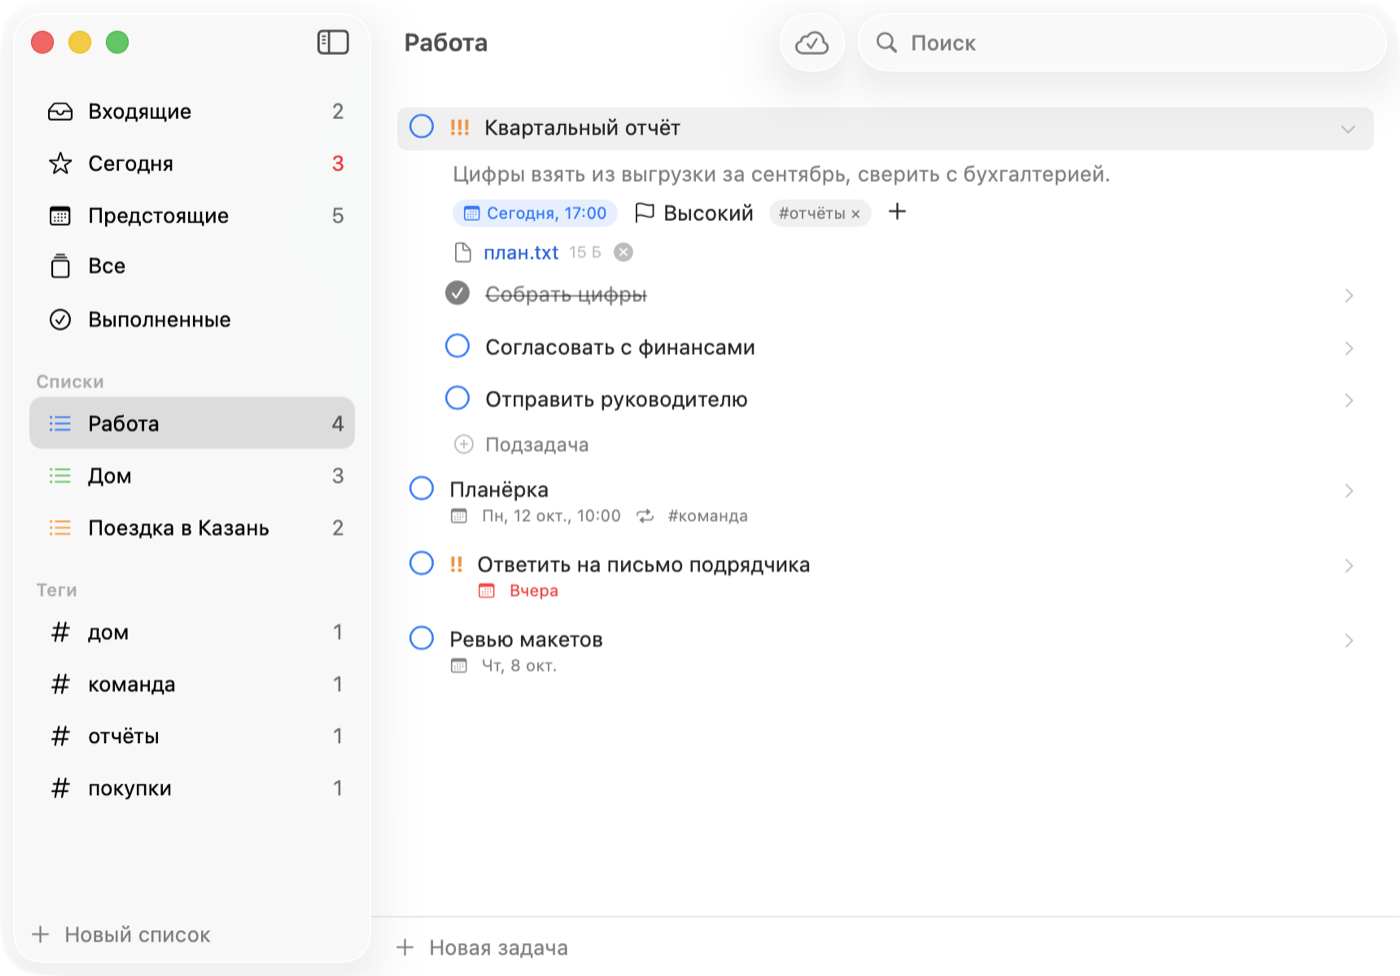
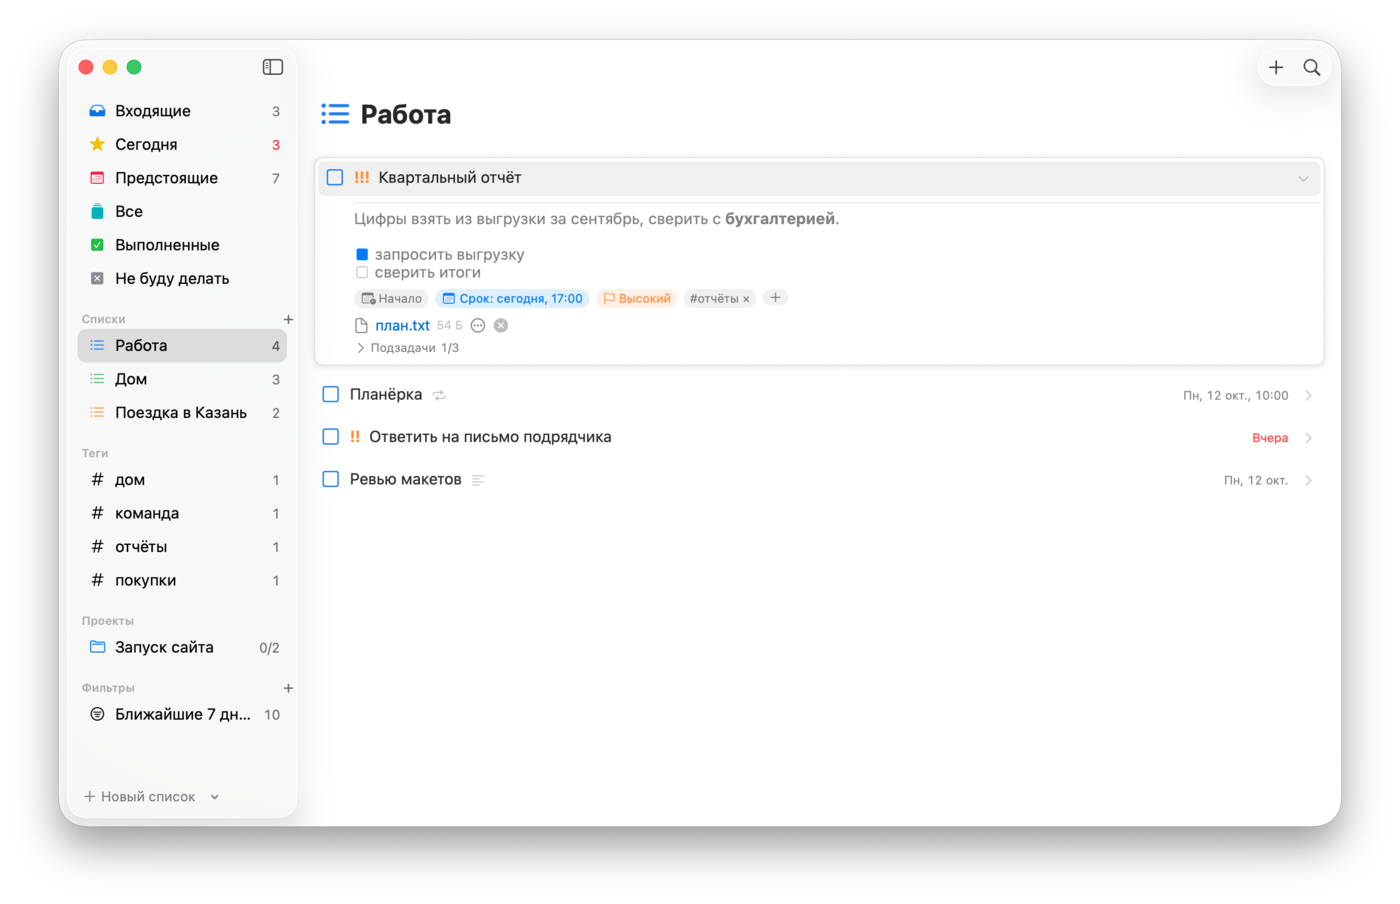
docs: the card of a task on macOS, and what the screenshots were taken with
Refs #137

diff --git a/docs/specs/product.md b/docs/specs/product.md
@@ -307,6 +307,8 @@ Android: один экран со списком задач, выдвижная 
 
 **Клавиатура в карточке по ⌘N после быстрого ввода** (R37, #152) — найдено автором проекта 2026-10-09 в видимом окне отладочной сборки: после работы с окном быстрого ввода ⌘N в основном окне открывал карточку, в которую нельзя было писать. Состояние снято шагом `state` раз в две секунды, пока автор повторял сценарий руками: основное окно ключевое, карточка открыта, а клавиатура у корневого вида окна (`AppKitWindowHostingView`), не у поля названия; до ⌘N она была у списка задач. Просьба карточки о клавиатуре при появлении теряется. Почему — не установлено: скриптом в видимом окне (панель, Esc, панель, задача через неё, ⌘N) и в скрытом экземпляре (клавиатура у списка, выделена строка, ⌘N, шесть раз) сбой не воспроизвёлся, нужен проход панели руками. Отвергнуто замером: основное окно после закрытия панели остаётся ключевым. Правка: карточка в основном окне через 50, 150, 350 и 750 мс после появления смотрит, есть ли клавиатура у текста, плашки или открытого выбора, и если нет — просит её для названия заново. Проверено тем же ручным сценарием на сборке с правкой: сбой случился три раза, каждый раз карточка попросила клавиатуру повторно и получила её, название набрано. В скрытом экземпляре обычный путь не изменился: ⌘N даёт клавиатуру названию без повторной просьбы, Tab ведёт в заметку и на плашки. Не проверено: кнопка «+», окно строки меню, сборка для выпуска; связь со вспышкой из #83.
 
+**Документация и снимки экрана** (#137) — 2026-10-09. `docs/usage.md`, `README.md`, `docs/architecture.md`, `docs/self-hosting.md` и `docs/releasing.md` сверены со спецификацией и с кодом; что расходилось, исправлено. У образа `ghcr.io/juev/lists` нет тега `latest`, пока все выпуски предварительные (проверено запросом к реестру), поэтому команды установки называют версию. Все снимки в `docs/screenshots` сняты заново с одних демо-данных, которые создаёт пример `cargo run --example demo` в `core/`. Android: эмулятор API 36 без окна, тёмное оформление, английский интерфейс, `adb exec-out screencap`, уменьшено до 720 пикселей по ширине. Веб: headless Chromium (playwright-cli) на сервере с демо-данными, окна 1180×760, 1180×620 и 390×844; английский вариант — с подменой языка браузера. macOS: основное окно снято `screencapture` в видимом экземпляре, который запустил автор проекта; окно быстрого ввода нарисовано шагом `quicknote` без показа на экране, поэтому у него нет тени. Шаг `winshot` для основного окна не подошёл: боковая панель в нём пустая. Снимок «Сегодня» на macOS сделан до правки #155, снимок карточки задачи — после неё. Не сверялось: подписи в интерфейсе macOS, которые названы в `docs/usage.md`, глазами на экране; `docs/specs/sync.md`, `caldav.md` и `import.md` между собой.
+
 **Обрезанная карточка открытой задачи на macOS** (#155) — найдено 2026-10-09, когда для #137 снимали окно: карточка задачи с заметкой в несколько строк была срезана снизу, ряд полей, вложения и подзадачи не видны. Так же вела себя сборка `v0.1.0-rc.10`. Наблюдения сделаны в скрытом прозрачном экземпляре (`ghost`) шагом `winshot` и совпали со снимком видимого окна через `screencapture`. Причин оказалось две. Первая: высота заметки спрашивается до того, как вид получил новый текст, и считалась по прежнему, пустому; теперь она считается по тексту, который виду передан, а карточка получает заметку и вложения задачи при создании, а не после появления. Вторая: первая строка списка задач не меняет высоту, когда её содержимое растёт, — файл, прикреплённый к открытой карточке первой задачи списка, оставался срезанным, а у третьей задачи того же списка строка вырастала, в каком бы порядке карточки ни открывали. Почему так ведёт себя первая строка, не установлено; её место теперь занимает пустая строка высотой в один пункт. Её нет там, где первым стоит блок событий календаря или заголовок группы («Сегодня», «Предстоящие»): в видимом окне пустая строка перед заголовком группы дала лишний зазор под названием представления, а первая задача под заголовком растёт и без неё — файл, прикреплённый к открытой карточке первой задачи «Сегодня», виден. Проверено там же: карточка с заметкой из четырёх строк, с пустой строкой, с чекбоксами, с вложением и подзадачами показана целиком в первой строке и в остальных; файл, прикреплённый к открытой карточке первой задачи, виден; закрытый список сдвинулся на один пункт, расстояние между строками прежнее; стрелки вниз и вверх выделяют первую и вторую задачи; текст, набранный в заметку открытой карточки, остаётся в ней и записан в базу (высота не считается по переданному тексту, пока заметку набирают). В видимом окне карточка с заметкой, вложением и подзадачами в первой строке списка показана целиком (снимок `screencapture` для #137). Не проверено: перетаскивание задач на первое место, представления с заголовками групп («Предстоящие»), набор длинной заметки в карточке первой задачи.
 
 **Набранное переживает остановку приложения** (R83, #127) — проверено 2026-10-08 сборками до и после правки. macOS: скрытый экземпляр отладочной сборки с отдельной папкой данных; текст набран отладочным сценарием при клавиатуре в заметке, выход — шагом `quit`, который зовёт то же, что ⌘Q; заметка прочитана шагом `notes` после нового запуска. До правки после выхода заметка пуста, после `kill -9` тоже. После правки после выхода в заметке набранный текст; название, дописанное перед выходом, сохранено. Android: эмулятор API 36 без окна, текст набран через `adb shell input` в конец заметки существующей задачи, заметка прочитана из карточки после `am start`. До правки: «Домой» и `am kill` в фоне — набранного нет; `am force-stop` при открытой клавиатуре — набранного нет. После правки: «Домой» и `am kill` — набранное в заметке на месте; так же с названием задачи. Не проверено: выход настоящим ⌘Q и из меню; потеря активности на macOS (скрытое приложение активным не бывает); выгрузка приложения самой системой, а не командой; выход из системы и выключение; название на Android до правки; настоящий телефон. Принудительная остановка, падение и `kill -9` текст по-прежнему теряют: требование их не покрывает.
